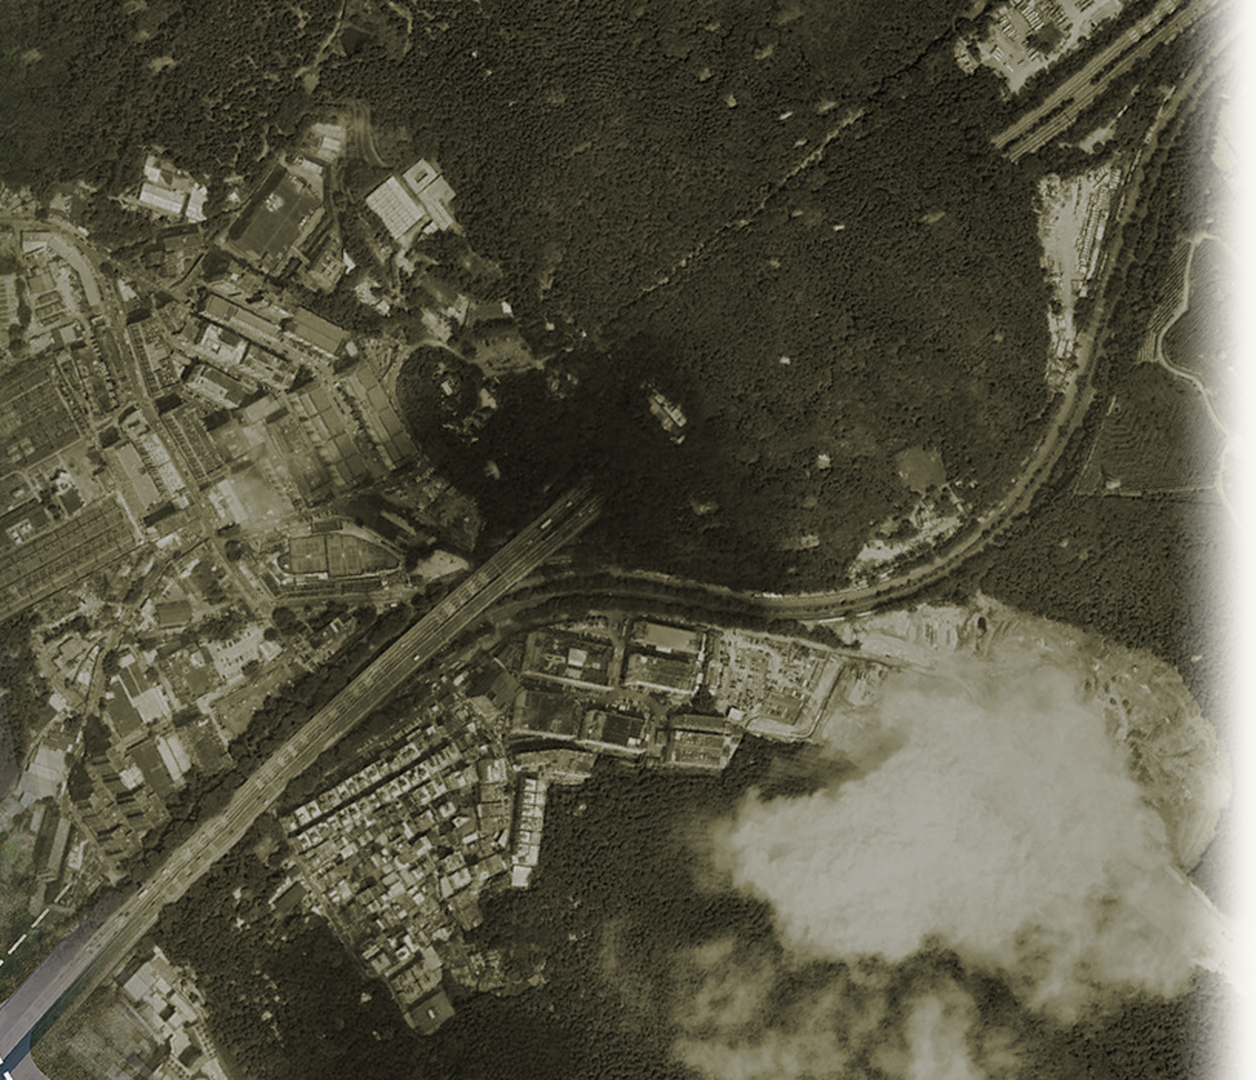
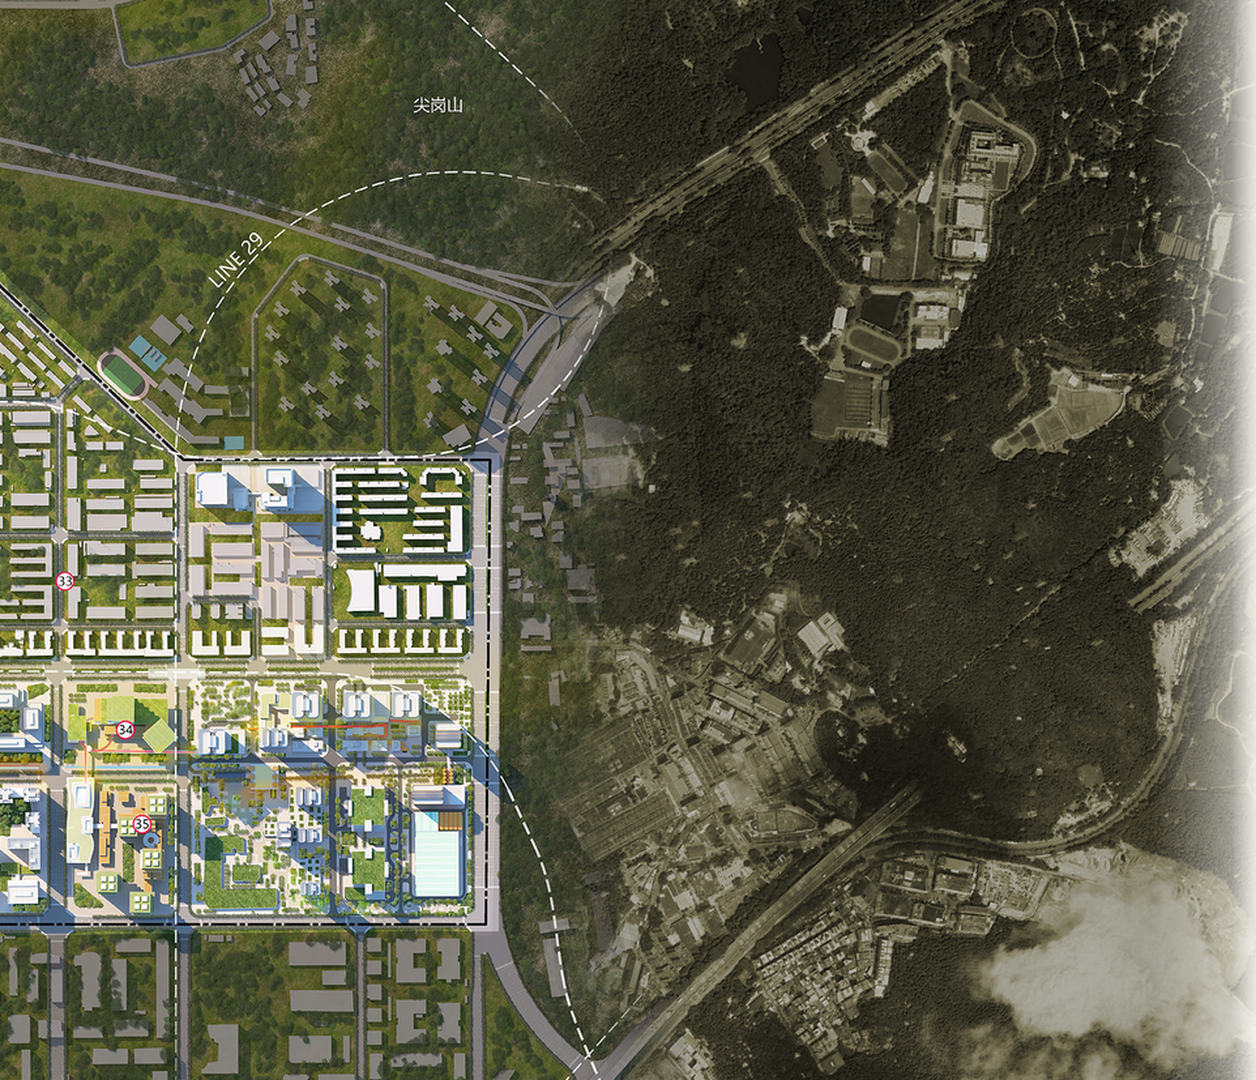
Fix overview label spacing toward center; recrop page 4 尖岗山 mountain-centered
Page 1: narrow the three district columns into a centered band over the map and reduce vertical gaps so text converges toward the map, not the edges.
Page 4: replace map crop so 尖岗山 mountain mass sits in the map viewport center with soft cream feather; leave page 3 unchanged.

diff --git a/css/deck.css b/css/deck.css
@@ -58,21 +58,26 @@ html, body {
 .slide-overview {
   display: grid;
   grid-template-rows: auto 1fr auto;
-  /* tighter: pull text toward map */
-  padding: 0.55em 1.6em 0.7em;
-  gap: 0.2em;
+  /* converge text toward map / center — not toward edges */
+  padding: 0.35em 0 0.45em;
+  gap: 0.08em;
+  justify-items: center;
 }
 
 .ov-top {
   display: grid;
   grid-template-columns: 1fr 1fr 1fr;
-  gap: 0.85em;
+  /* narrow band over the map, centered */
+  width: min(72%, 52em);
+  max-width: 100%;
+  gap: 0.45em;
   text-align: center;
   align-items: end;
-  padding-bottom: 0.1em;
+  padding: 0;
+  margin: 0 auto;
 }
 
-.ov-col { padding: 0 0.35em; }
+.ov-col { padding: 0 0.15em; }
 
 .ov-district {
   font-family: var(--serif);
@@ -132,8 +137,10 @@ html, body {
 
 .ov-bottom {
   text-align: center;
-  padding-top: 0.05em;
-  padding-bottom: 0.15em;
+  padding-top: 0;
+  padding-bottom: 0.1em;
+  width: min(72%, 52em);
+  margin: 0 auto;
 }
 
 .ov-footer-cn {
@@ -174,11 +181,10 @@ html, body {
   -webkit-user-drag: none;
 }
 
-/* Page 4: keep mountain mass centered */
+/* Page 4: 尖岗山主体 already centered in asset */
 .slide-district[data-page="4"] .map-pane img {
-  object-position: 72% 48%;
-  transform: scale(1.06);
-  transform-origin: 70% 48%;
+  object-position: center center;
+  transform: none;
 }
 
 /* Soft cream feather between map and side panel (all district pages) */
